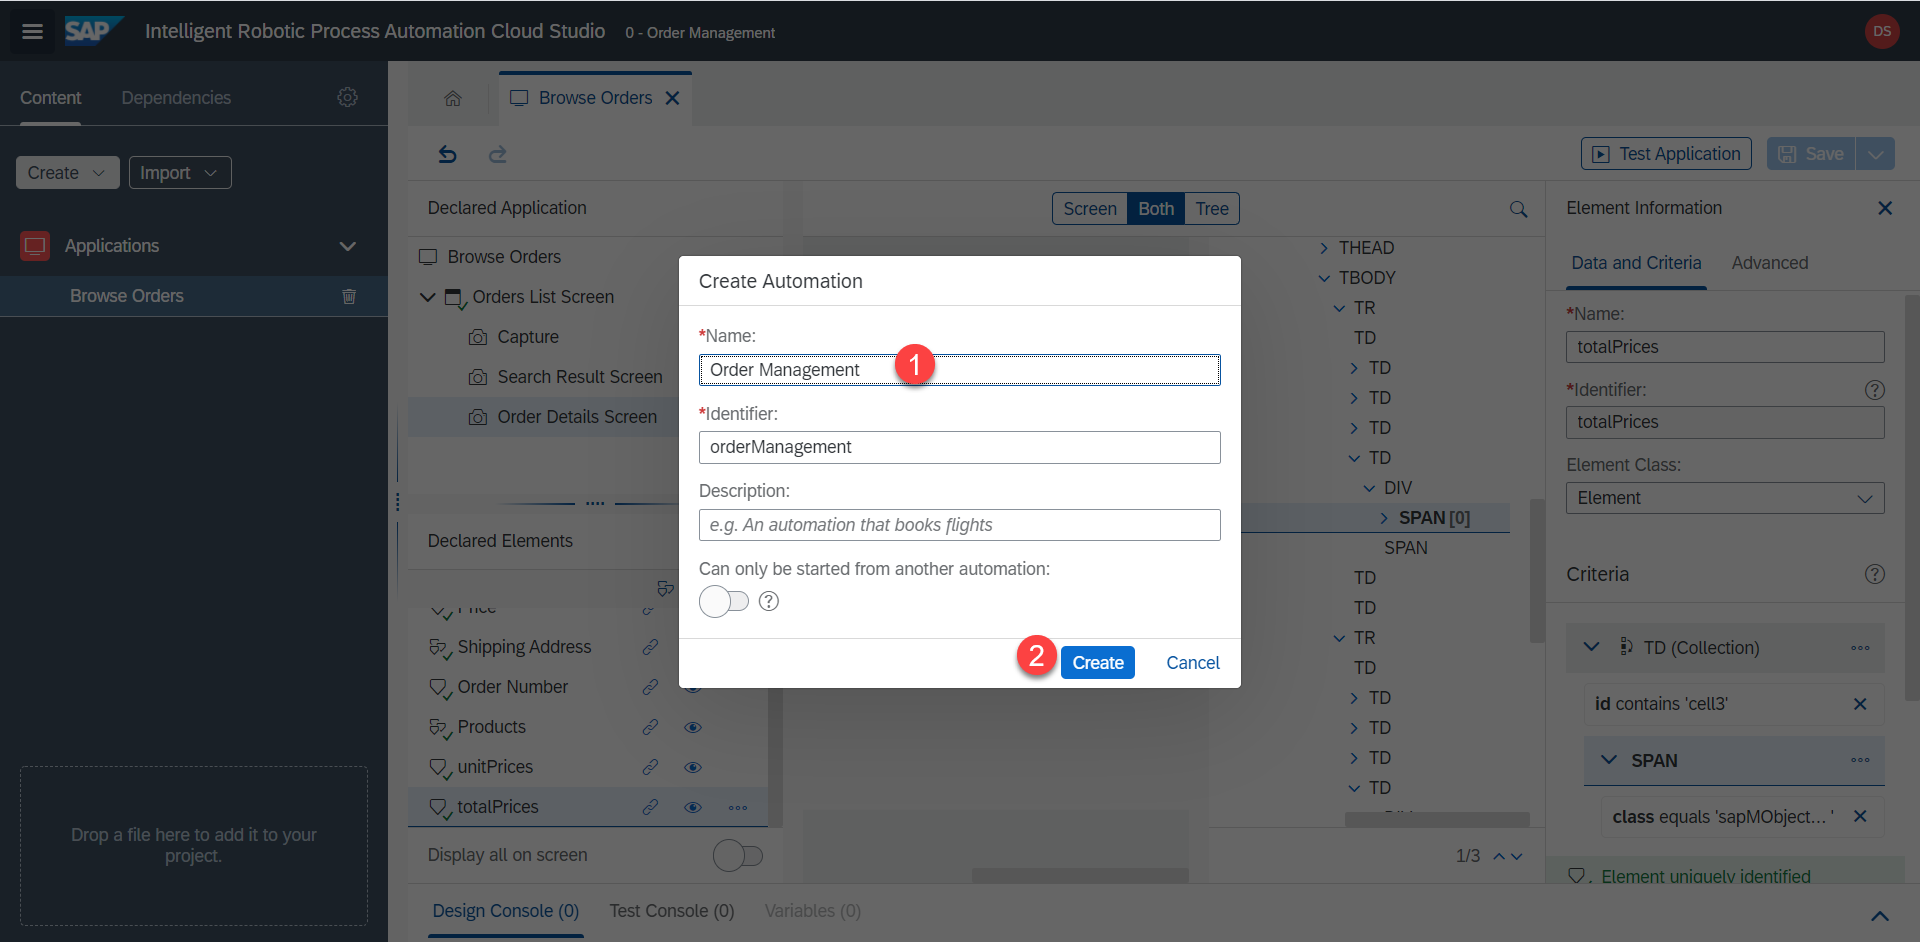
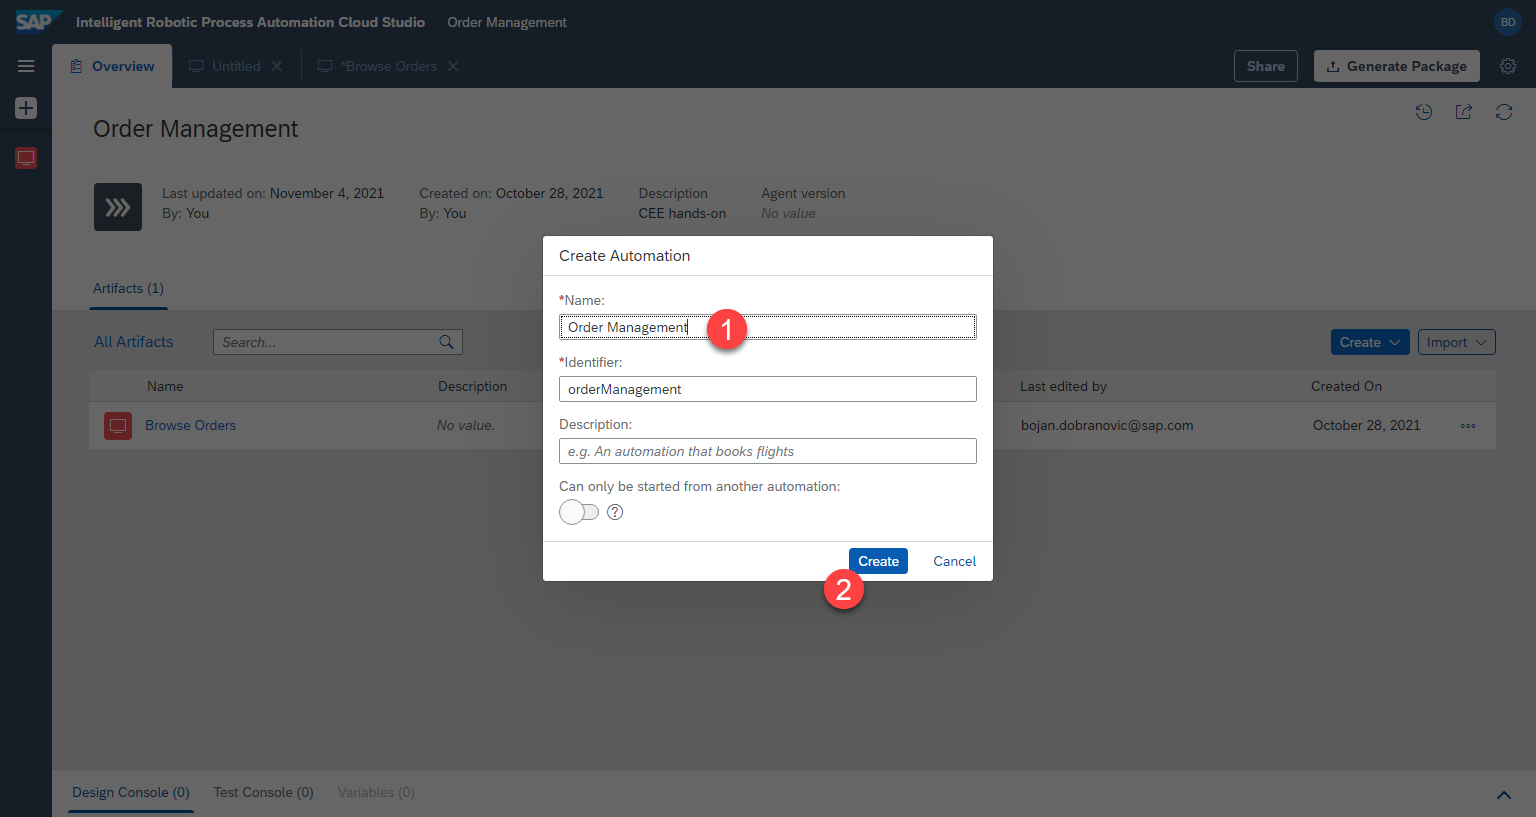
automation intro

diff --git a/docs/automation_intro.md b/docs/automation_intro.md
@@ -12,14 +12,16 @@ We can start creating our automation from this high level and go down, implement
 
 ## Creating sub-automations
 
+NOTE: Agent should be installed on your machine and connected to your Cloud Facotry tenant (part of the prerequisite activities).
+
 Let's start by creating 3 automation: one main one, one for the UI5 part, one for Excel one
 
-1. Click on `create` > `automation`
+1. Click on tab `Overview` and then click on button `Create` and select (click) `automation`
 
 ![](images/0600.png)
 
 
-2. Select the version which is tagged `local`. This is the version of your desktop agent installed locally. Even if a higher version is available in the dropdown, please select the `local` version, to make sure that the automation can run on your machine.
+2. Select the version which is tagged `local` (your version number can be different than version shown on screen). This is the version of your desktop agent installed locally. Even if a lower or higher version is available in the dropdown, please select the `local` version, to make sure that the automation can run on your machine.
 
 ![](images/0601.png)
 
@@ -38,7 +40,9 @@ Order Management
 
 An empty automation has been created.
 
-![](images/0604.png)
+![](images/0604a.png)
+
+![](images/0604b.png)
 
 Repeat the steps `1` - `4` to create 2 more automations:
 
@@ -68,3 +72,6 @@ We will repeat this process multiple times to add new steps to the automation. P
 4. Select the desired action and `drag and drop` it in the correct position
 
 ![](images/0700_DropStep.png)
+
+
+![](images/0700_Complete.png)
